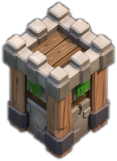
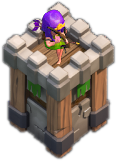
- 修改了图片锚点的设置规则，对不同建筑进行有区别的锚点设置

Changed region(s): [[0.2821, 0.0311, 0.6923, 0.4037]]

diff --git a/Classes/Building/Building.cpp b/Classes/Building/Building.cpp
@@ -322,8 +322,8 @@ WallBuilding* WallBuilding::Create(const std::string& name, int base,
         if (wall->initWithFile(texture)) {
             wall->autorelease();
 
-            // 设置墙体锚点为底部中心，方便放置
-            wall->setAnchorPoint(cocos2d::Vec2(0.5f, 0.0f));
+            //napper:设置墙体锚点以使其正确显示在格子内部
+            wall->setAnchorPoint(cocos2d::Vec2(0.5f, 0.7f));
 
             cocos2d::log("创建城墙: %s (位置: %.1f,%.1f)",
                 name.c_str(), position.x, position.y);

diff --git a/Classes/MapManager/MapManager.cpp b/Classes/MapManager/MapManager.cpp
@@ -277,7 +277,8 @@ void MapManager::setupNodeOnMap(cocos2d::Node* node, int gridX, int gridY, int w
 
     // 1. 设置位置（相对 worldNode）和锚点
     node->setPosition(vecToWorld(cocos2d::Vec2{gridX+0.5f*width, gridY+0.5f*length}));
-    node->setAnchorPoint(cocos2d::Vec2(0.5f, 0.4f));
+    //为了适配不同类型的图片，最好分别设置AnchorPoint
+    //node->setAnchorPoint(cocos2d::Vec2(0.5f, 0.7f));
 
     // 2. 设置缩放适配格子
     auto sprite = dynamic_cast<cocos2d::Sprite*>(node);

diff --git a/Classes/Combat/BuildingInCombat.cpp b/Classes/Combat/BuildingInCombat.cpp
@@ -51,6 +51,7 @@ bool BuildingInCombat::Init(const Building* building_template,MapManager* map) {
     this->position_ = building_template->GetPosition();
     map_->setupNodeOnMap(this,static_cast<int>(position_.x),static_cast<int>(position_.y),
                          building_template_->GetWidth(),building_template_->GetLength());
+    this->setAnchorPoint(this->building_template_->getAnchorPoint());
 
 
     auto building_size = this->getContentSize();
